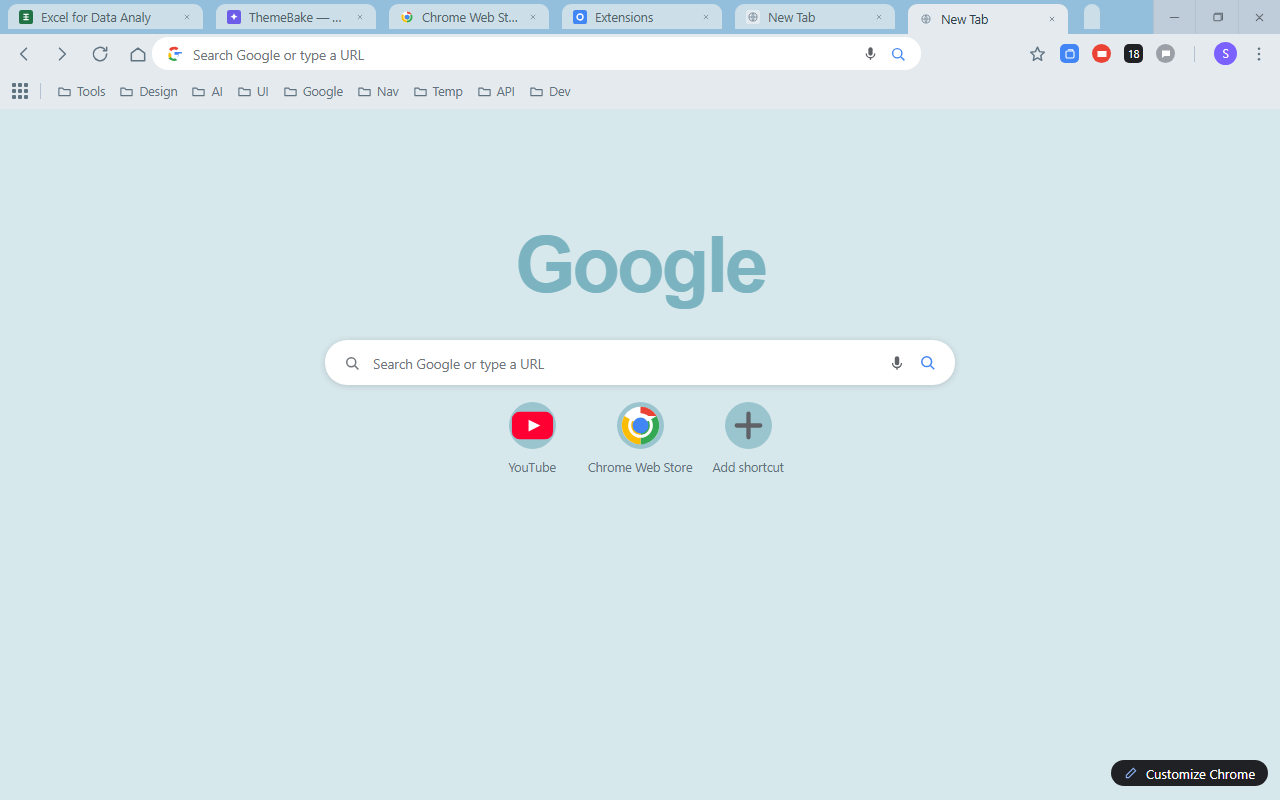
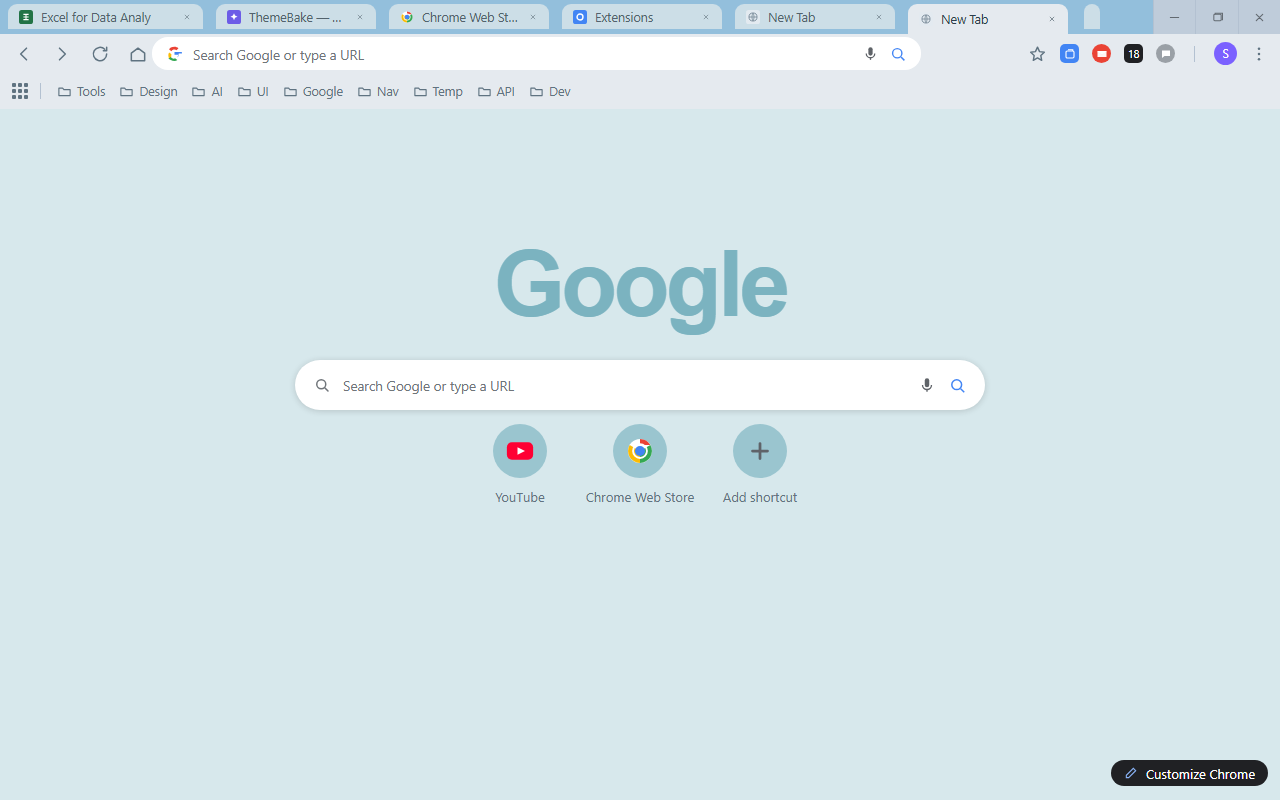
商店截图 v2：NTP 内容块按实机比例下移放大；README 预览区补 promo 图
- 截图 1 的字标 / 搜索框 / 快捷方式分别落到窗口高度 29% / 45% / 53%（与实机截图一致），
  消除下半张图的空旷感，缩略图下更易读
- 内容块放大一档：Google 字号 78→92、搜索框 630×45→690×50、快捷方式圆底 47→54、
  图标 30px、标签 12.5→13
- README 预览区新增 1400×560 marquee 与 440×280 promo tile

Changed region(s): [[0.2188, 0.2812, 0.7812, 0.625]]

diff --git a/store-assets/references/screenshot-1-browser.html b/store-assets/references/screenshot-1-browser.html
@@ -45,20 +45,21 @@
   .bm { display:flex; align-items:center; gap:5px; padding:0 4px; }
   .ntp { position:absolute; left:0; right:0; top:109px; bottom:0;
          background:#D7E8EC; }
-  .wordmark { position:absolute; left:0; right:0; top:111px;
-              text-align:center; font-size:78px; font-weight:700;
-              letter-spacing:-3px; color:#7BB3C0; font-family:Arial, sans-serif; }
-  .searchbox { position:absolute; left:325px; top:231px;
-               width:630px; height:45px; border-radius:22px;
+  .wordmark { position:absolute; left:0; right:0; top:123px;
+              text-align:center; font-size:92px; font-weight:700;
+              letter-spacing:-4px; color:#7BB3C0; font-family:Arial, sans-serif; }
+  .searchbox { position:absolute; left:295px; top:251px;
+               width:690px; height:50px; border-radius:25px;
                background:#FFFFFF; box-shadow:0 1px 6px rgba(32,33,36,.18);
                display:flex; align-items:center; gap:12px; padding:0 18px; }
-  .shortcuts { position:absolute; left:0; right:0; top:293px;
+  .shortcuts { position:absolute; left:0; right:0; top:315px;
                display:flex; justify-content:center; }
-  .shortcut { width:108px; text-align:center; }
-  .sdisc { width:47px; height:47px; margin:0 auto 10px; border-radius:50%;
+  .shortcut { width:120px; text-align:center; }
+  .sdisc { width:54px; height:54px; margin:0 auto 10px; border-radius:50%;
            background:#9AC5CF; display:flex; align-items:center;
            justify-content:center; }
-  .slabel { font-size:12.5px; color:#5F7381; white-space:nowrap; overflow:hidden;
+  .sdisc svg { width:30px; height:30px; }
+  .slabel { font-size:13px; color:#5F7381; white-space:nowrap; overflow:hidden;
             text-overflow:ellipsis; }
   .pill { position:absolute; right:12px; bottom:14px; height:26px;
           border-radius:13px; background:#202124; display:flex;

diff --git a/scripts/generate-screenshot.py b/scripts/generate-screenshot.py
@@ -46,9 +46,9 @@ TOOLBAR_H = 39
 BOOKMARK_H = 36
 NTP_TOP = TAB_STRIP_H + TOOLBAR_H + BOOKMARK_H
 OMNIBOX_L, OMNIBOX_W, OMNIBOX_H = 152, 769, 33
-WORDMARK_TOP, WORDMARK_SIZE = 111, 78       # relative to the NTP strip
-SEARCH_TOP, SEARCH_L, SEARCH_W, SEARCH_H = 231, 325, 630, 45
-SHORTCUT_TOP = 293                          # relative to the NTP strip
+WORDMARK_TOP, WORDMARK_SIZE = 123, 92       # relative to the NTP strip
+SEARCH_TOP, SEARCH_L, SEARCH_W, SEARCH_H = 251, 295, 690, 50
+SHORTCUT_TOP = 315                          # relative to the NTP strip
 TAB_H, TAB_TOP, TAB_GAP = 25, 4, 13
 CAPTION_W = 127
 
@@ -217,18 +217,19 @@ def build_browser(c):
          background:{ntp}; }}
   .wordmark {{ position:absolute; left:0; right:0; top:{WORDMARK_TOP}px;
               text-align:center; font-size:{WORDMARK_SIZE}px; font-weight:700;
-              letter-spacing:-3px; color:{WORDMARK}; font-family:Arial, sans-serif; }}
+              letter-spacing:-4px; color:{WORDMARK}; font-family:Arial, sans-serif; }}
   .searchbox {{ position:absolute; left:{SEARCH_L}px; top:{SEARCH_TOP}px;
                width:{SEARCH_W}px; height:{SEARCH_H}px; border-radius:{SEARCH_H // 2}px;
                background:#FFFFFF; box-shadow:0 1px 6px rgba(32,33,36,.18);
                display:flex; align-items:center; gap:12px; padding:0 18px; }}
   .shortcuts {{ position:absolute; left:0; right:0; top:{SHORTCUT_TOP}px;
                display:flex; justify-content:center; }}
-  .shortcut {{ width:108px; text-align:center; }}
-  .sdisc {{ width:47px; height:47px; margin:0 auto 10px; border-radius:50%;
+  .shortcut {{ width:120px; text-align:center; }}
+  .sdisc {{ width:54px; height:54px; margin:0 auto 10px; border-radius:50%;
            background:{SHORTCUT_DISC}; display:flex; align-items:center;
            justify-content:center; }}
-  .slabel {{ font-size:12.5px; color:{LABEL}; white-space:nowrap; overflow:hidden;
+  .sdisc svg {{ width:30px; height:30px; }}
+  .slabel {{ font-size:13px; color:{LABEL}; white-space:nowrap; overflow:hidden;
             text-overflow:ellipsis; }}
   .pill {{ position:absolute; right:12px; bottom:14px; height:26px;
           border-radius:13px; background:{PILL_BG}; display:flex;

diff --git a/README.md b/README.md
@@ -52,9 +52,17 @@ Search for **Calm Sky Theme** in the Chrome Web Store and install it.
 
 ## Preview
 
-![Calm Sky Theme browser preview](https://raw.githubusercontent.com/vaxicy/calm-sky-theme/main/store-assets/screenshots/en/screenshot-1-browser.png?rev=d5c3bb81)
+![Calm Sky Theme browser preview](https://raw.githubusercontent.com/vaxicy/calm-sky-theme/main/store-assets/screenshots/en/screenshot-1-browser.png?rev=PENDING)
 
-![Calm Sky Theme palette](https://raw.githubusercontent.com/vaxicy/calm-sky-theme/main/store-assets/screenshots/en/screenshot-2-introduction.png?rev=d5c3bb81)
+![Calm Sky Theme palette](https://raw.githubusercontent.com/vaxicy/calm-sky-theme/main/store-assets/screenshots/en/screenshot-2-introduction.png?rev=PENDING)
+
+### Store promo tiles
+
+![Calm Sky Theme marquee](https://raw.githubusercontent.com/vaxicy/calm-sky-theme/main/store-assets/promo/1400x560.png?rev=PENDING)
+
+<p align="center">
+  <img src="https://raw.githubusercontent.com/vaxicy/calm-sky-theme/main/store-assets/promo/440x280.png?rev=PENDING" width="440" alt="Calm Sky Theme promo tile">
+</p>
 
 ## Files
 
